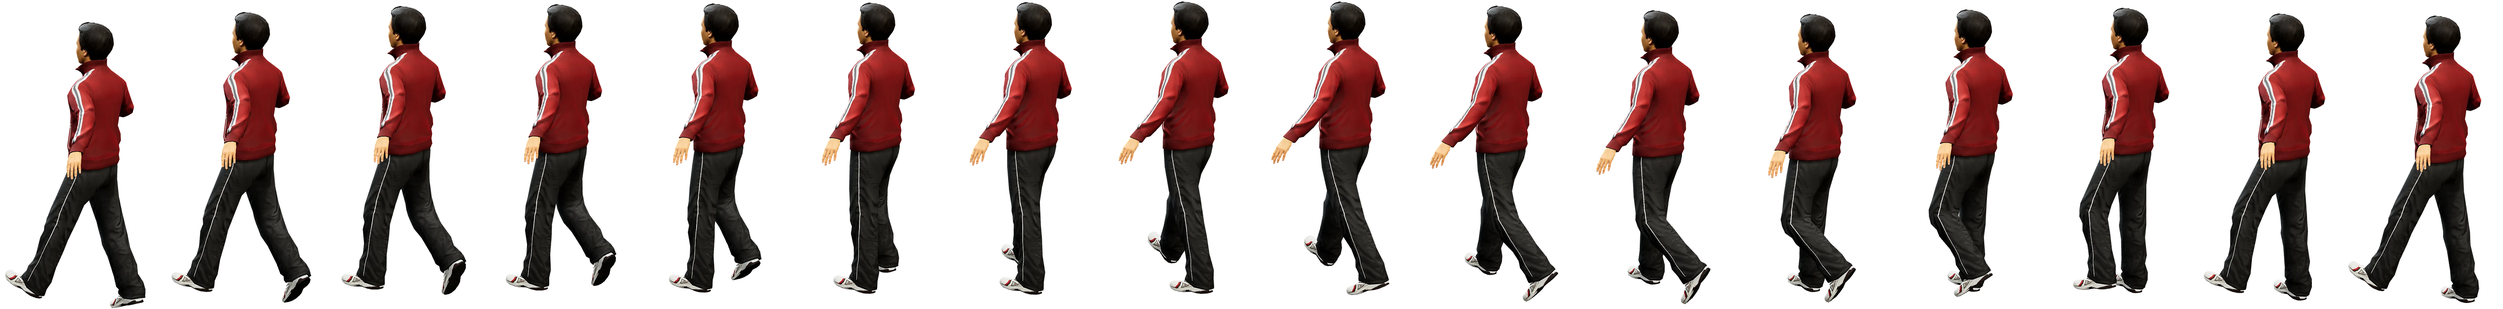
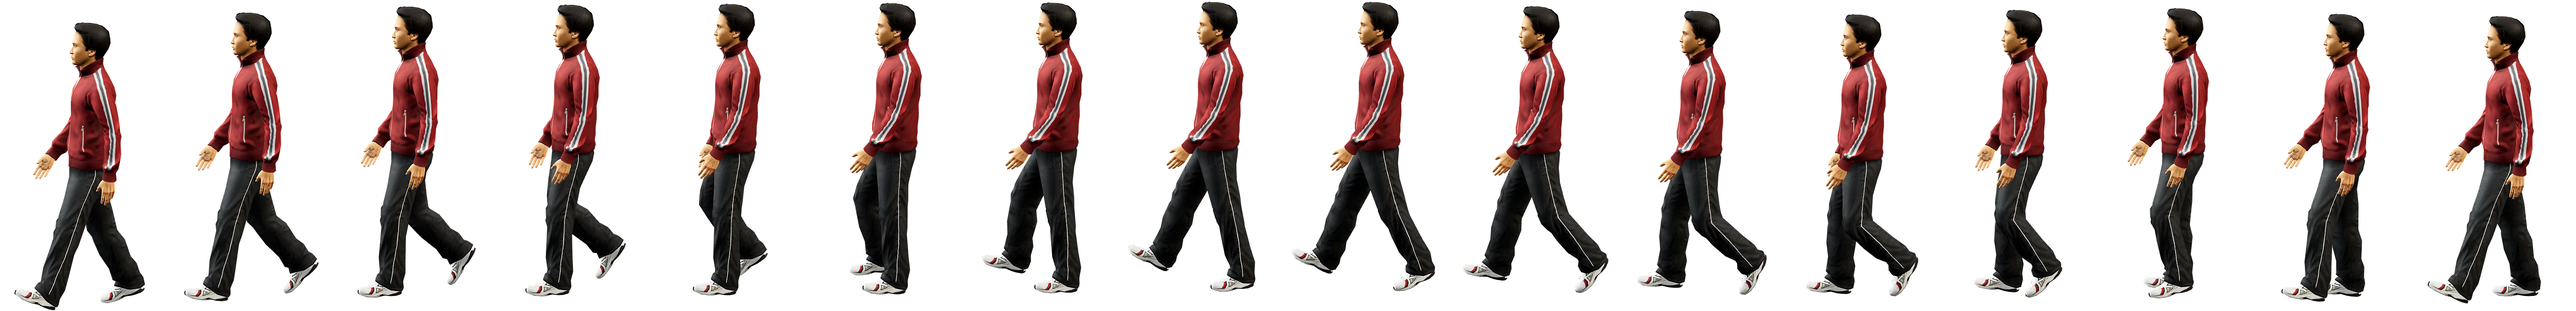
Boy walk like the official girl walk: side view, rod put away, both arms swing (feet still planted)
Claude-Session: https://claude.ai/code/session_015wTtB1gpnwZfSCXSmz86iq

Changed region(s): [[0.0, 0.0, 0.9976, 1.0]]

diff --git a/dev/tools/char3d/walk2.py b/dev/tools/char3d/walk2.py
@@ -8,12 +8,15 @@ from playwright.sync_api import sync_playwright
 from PIL import Image, ImageEnhance, ImageFilter
 ARGS = ['--use-gl=angle', '--use-angle=swiftshader', '--enable-webgl', '--ignore-gpu-blocklist', '--enable-unsafe-swiftshader']
 OUT = sys.argv[3] if len(sys.argv) > 3 else '/home/claude/char3d/out/'
-AZ = float(sys.argv[1]) if len(sys.argv) > 1 else 128
+AZ = float(sys.argv[1]) if len(sys.argv) > 1 else 80
 N = int(sys.argv[2]) if len(sys.argv) > 2 else 16
 GRIP = {}
 for f in '1234':
     GRIP[f'R_Finger{f}'] = [0, 0, 70]; GRIP[f'R_Finger{f}1'] = [0, 0, 80]; GRIP[f'R_Finger{f}2'] = [0, 0, 60]
-PV = float(__import__('os').environ.get('PV', 4))
+PV = float(__import__('os').environ.get('PV', 3))
+# NOROD=1: walking without the rod (官方 2026-11-19: 男生走路也套用女孩的走法 — side view, rod put away, both arms swing)
+NOROD = __import__('os').environ.get('NOROD', '1') == '1'
+EF = float(__import__('os').environ.get('EF', -.45))   # elbow bend direction
 MODEL, PREFIX = 'm10/Male_Adult_10.fbx', 'm024'
 # (phase, degrees); hip + = flexion (leg forward), knee + = flexion, ankle + = toe down
 HIP = [(0, 26), (.12, 22), (.3, 6), (.5, -12), (.6, -6), (.73, 16), (.87, 28)]
@@ -43,9 +46,11 @@ def pose_at(ph):
         'L_Calf': [0, 0, -curve(KNEE, L)], 'R_Calf': [0, 0, -curve(KNEE, R)],
         'L_Foot': [0, 0, -curve(ANK, L)], 'R_Foot': [0, 0, -curve(ANK, R)],
         # left arm swings against the left leg; right hand keeps the rod
-        'L_UpperArm': [0, 0, 34 + .75 * (hl - 7)], 'L_Forearm': [0, 0, -14 - 6 * max(0, (7 - hl) / 20)],
-        'R_UpperArm': [0, 0, -12], 'R_Forearm': [0, 0, -68],
-        'Pelvis': [0, -PV * s, 0], 'Spine1': [0, PV * 1.2 * s, 0], **GRIP}
+        **({'L_UpperArm': [0, 41, -4 - .8 * (hr - 8)], 'L_Forearm': [0, 0, EF * (12 + .25 * max(0, hr - 8))],
+             'L_Hand': [0, 0, 0]} if NOROD else {'L_UpperArm': [0, 0, 34 + .75 * (hl - 7)], 'L_Forearm': [0, 0, -14 - 6 * max(0, (7 - hl) / 20)]}),
+        **({'R_UpperArm': [0, -41, -4 - .8 * (hl - 8)], 'R_Forearm': [0, 0, EF * (12 + .25 * max(0, hl - 8))]} if NOROD else
+           {'R_UpperArm': [0, 0, -12], 'R_Forearm': [0, 0, -68]}),
+        'Pelvis': [0, -PV * s, 0], 'Spine1': [0, PV * 1.2 * s, 0], **({} if NOROD else GRIP)}
 
 
 def grade(im):

diff --git a/dev/tools/boy_walk_update.py b/dev/tools/boy_walk_update.py
@@ -15,6 +15,7 @@ wa = np.array(ws.crop((0, 0, wj['fw'], wj['fh'])).getchannel('A'))
 tc = np.where(wa[int(wj['fh'] * .2):int(wj['fh'] * .45)].max(0) > 40)[0]
 rate = 375 / (wj['stanceTravel'] / sb)
 man['meta']['boy']['walk'] = {'n': wj['n'], 'fw': round(wj['fw'] / sb, 2), 'fh': round(wj['fh'] / sb, 2), 'cx': round((tc.min() + tc.max()) / 2 / sb, 1),
-                              'hands': [[round(h[0] / sb, 1), round(h[1] / sb, 1)] for h in wj['hands']], 'rate': round(rate, 3)}
+                              'hands': [[round(h[0] / sb, 1), round(h[1] / sb, 1)] for h in wj['hands']], 'rate': round(rate, 3),
+                              'noRod': True}   # side view, rod put away while walking, like the official girl walk
 json.dump(man, open(OUT + 'assets.json', 'w'), ensure_ascii=False, separators=(',', ':'))
 w = man['meta']['boy']['walk']; print(w['n'], w['fw'], w['fh'], w['cx'], w['rate'])
